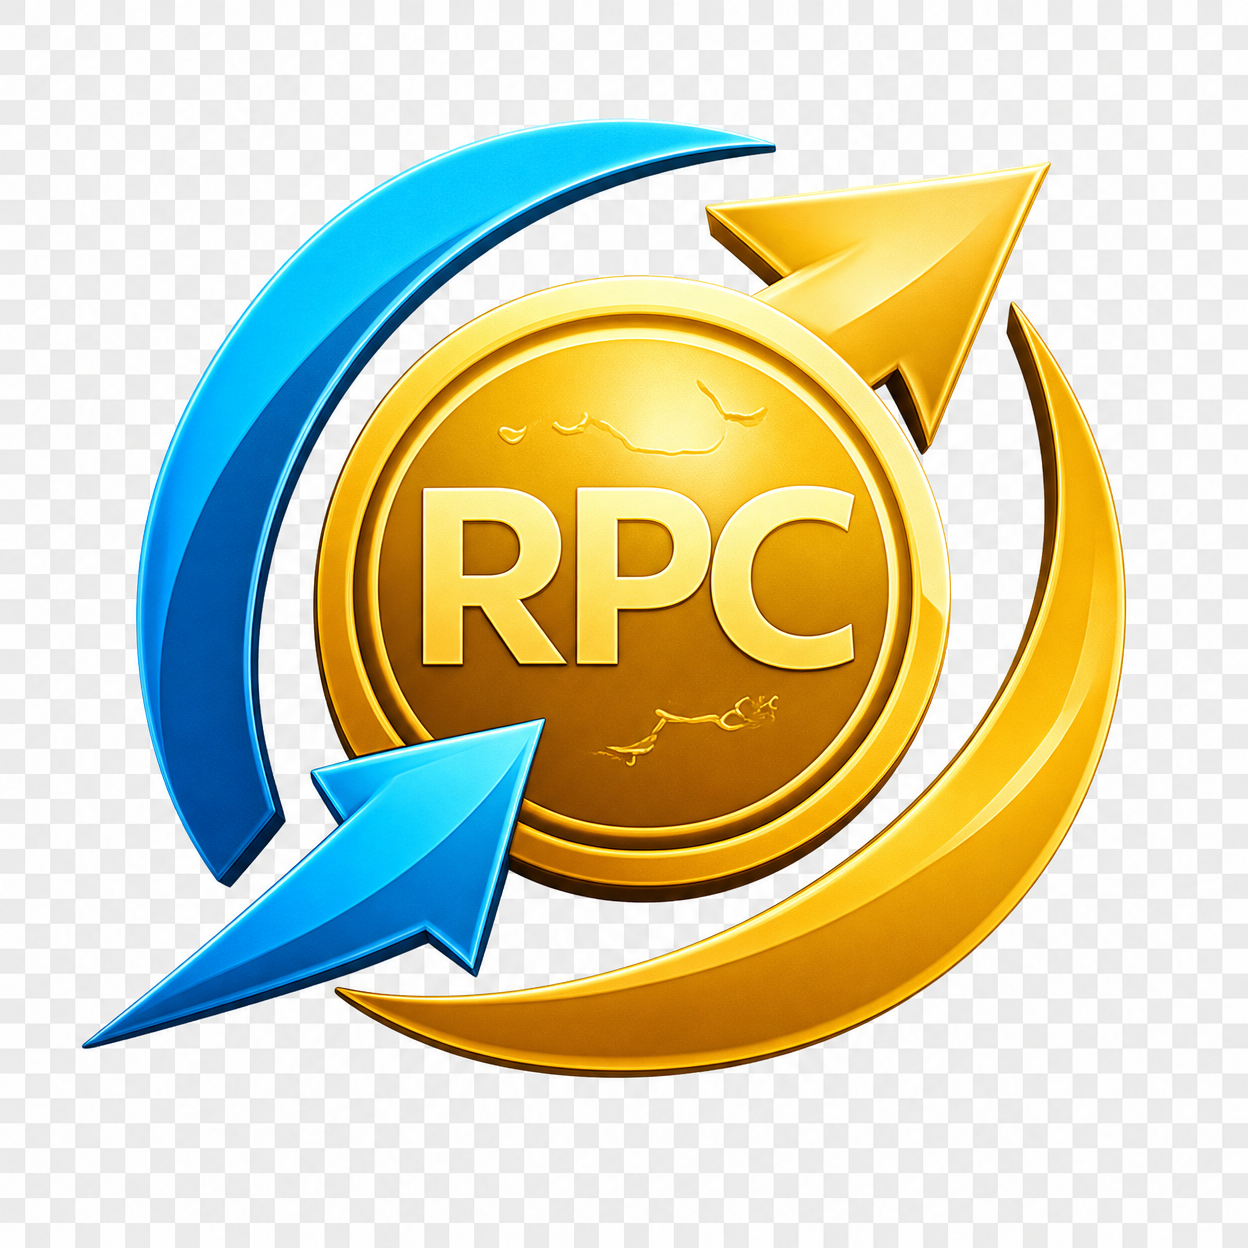
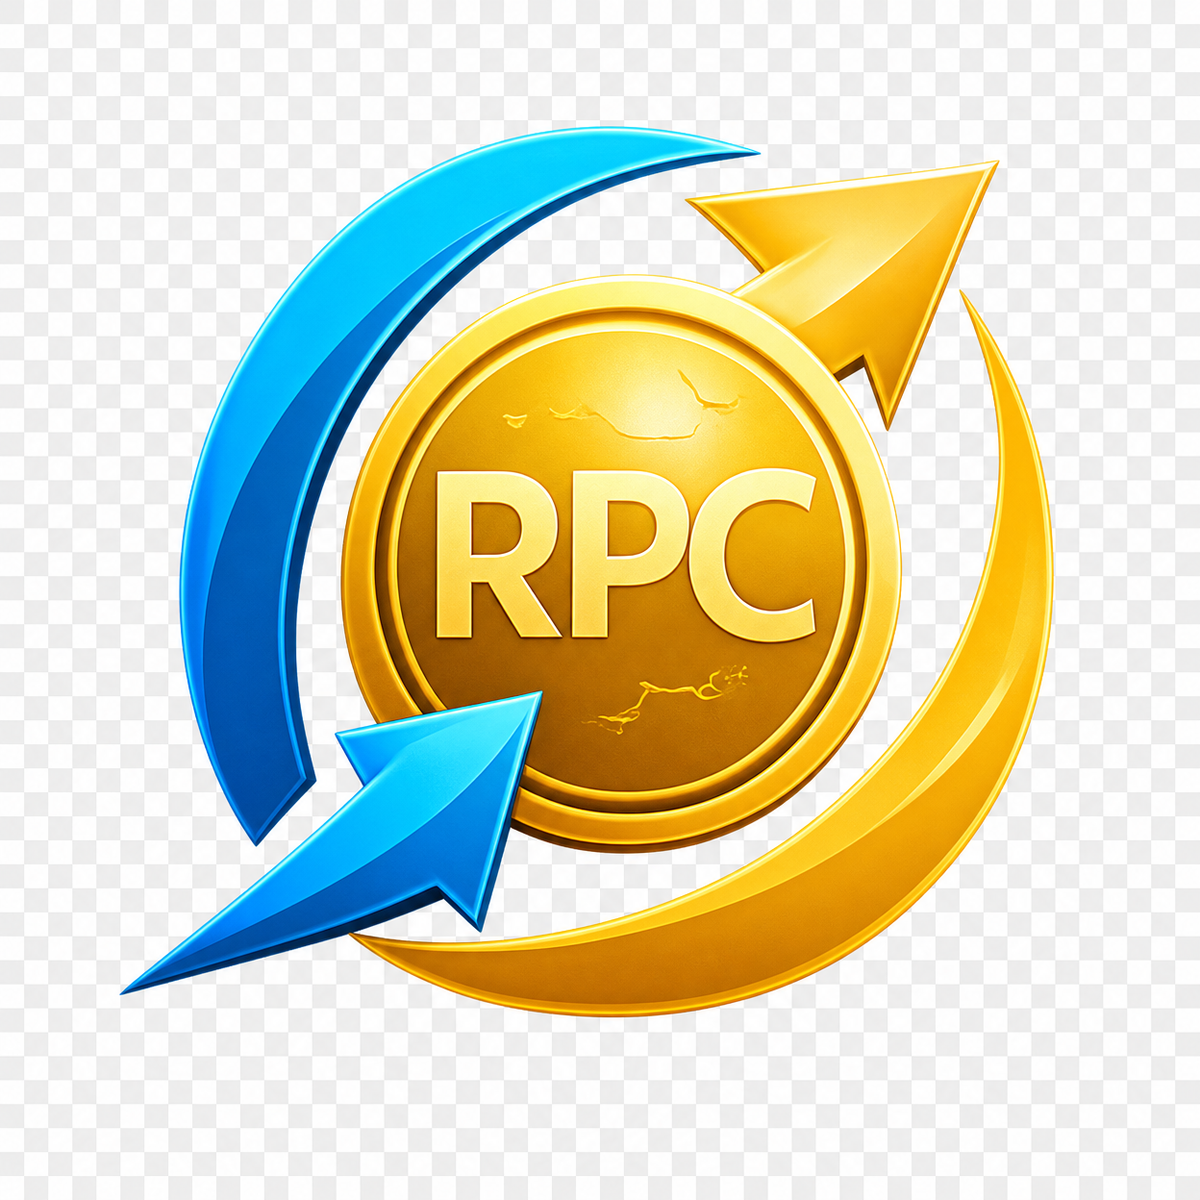
style: complete frontend modernization with glassmorphism and optimized assets

Changed region(s): [[0.0617, 0.0925, 0.925, 0.8633], [0.4933, 0.5858, 0.5242, 0.6167]]

diff --git a/frontend/src/pages/RegisterPage.tsx b/frontend/src/pages/RegisterPage.tsx
@@ -12,64 +12,121 @@ export function RegisterPage({ onSwitchLogin }: RegisterPageProps) {
   const [email, setEmail] = useState('');
   const [password, setPassword] = useState('');
   const [message, setMessage] = useState('');
+  const [isLoading, setIsLoading] = useState(false);
 
   async function handleSubmit(event: FormEvent) {
     event.preventDefault();
+    setIsLoading(true);
     try {
       await api('/auth/register', {
         method: 'POST',
         body: JSON.stringify({ name, characterName, bankAccountNumber, email, password }),
       });
-      setMessage('Conta criada com sucesso. Entre com o e-mail cadastrado.');
-      setName('');
-      setCharacterName('');
-      setBankAccountNumber('');
-      setEmail('');
-      setPassword('');
-      if (onSwitchLogin) onSwitchLogin();
+      setMessage('✓ Conta criada com sucesso! Redirecionando para login...');
+      setTimeout(() => {
+        setName('');
+        setCharacterName('');
+        setBankAccountNumber('');
+        setEmail('');
+        setPassword('');
+        if (onSwitchLogin) onSwitchLogin();
+      }, 1500);
     } catch (error) {
       setMessage((error as Error).message);
+    } finally {
+      setIsLoading(false);
     }
   }
 
   return (
     <section className="auth-panel nested-card">
-      <div style={{ textAlign: 'center', marginBottom: '20px' }}>
-        <img src="/assets/logo-full.png" alt="RPC Exchange" style={{ maxWidth: '200px', height: 'auto' }} />
+      <div className="auth-logo-container">
+        <img src="/assets/logo-full.png" alt="RPC Exchange" className="auth-logo" />
       </div>
-      <h2>Criar conta</h2>
-      <form onSubmit={handleSubmit}>
+      
+      <div className="auth-header">
+        <h2>Criar conta</h2>
+        <p className="auth-subtitle">Junte-se à comunidade RPC Exchange</p>
+      </div>
+
+      <form onSubmit={handleSubmit} className="auth-form">
         <label>
-          Nome
-          <input placeholder="Seu nome" value={name} onChange={(event) => setName(event.target.value)} required />
+          <span className="label-text">Nome completo</span>
+          <input 
+            placeholder="Seu nome" 
+            value={name} 
+            onChange={(event) => setName(event.target.value)} 
+            disabled={isLoading}
+            required 
+          />
         </label>
+
         <label>
-          Nome do personagem
-          <input placeholder="Nome do personagem" value={characterName} onChange={(event) => setCharacterName(event.target.value)} required minLength={3} />
+          <span className="label-text">Nome do personagem (RP)</span>
+          <input 
+            placeholder="Nome do seu personagem" 
+            value={characterName} 
+            onChange={(event) => setCharacterName(event.target.value)} 
+            disabled={isLoading}
+            required 
+            minLength={3} 
+          />
         </label>
+
         <label>
-          Número da conta bancária fictícia do RP
-          <input placeholder="Ex.: RP-12345" value={bankAccountNumber} onChange={(event) => setBankAccountNumber(event.target.value)} required minLength={3} />
+          <span className="label-text">Número da conta bancária</span>
+          <input 
+            placeholder="Ex.: RP-12345" 
+            value={bankAccountNumber} 
+            onChange={(event) => setBankAccountNumber(event.target.value)} 
+            disabled={isLoading}
+            required 
+            minLength={3} 
+          />
+          <small className="label-hint">Fictícia, usada apenas no RP</small>
         </label>
-        <p className="info-text">A conta bancária é fictícia e usada apenas dentro do RP.</p>
+
         <label>
-          E-mail
-          <input placeholder="[email redacted]" type="email" value={email} onChange={(event) => setEmail(event.target.value)} required />
+          <span className="label-text">E-mail</span>
+          <input 
+            placeholder="[email redacted]" 
+            type="email" 
+            value={email} 
+            onChange={(event) => setEmail(event.target.value)} 
+            disabled={isLoading}
+            required 
+          />
         </label>
+
         <label>
-          Senha
-          <input placeholder="Mínimo 8 caracteres" type="password" value={password} onChange={(event) => setPassword(event.target.value)} required minLength={8} />
+          <span className="label-text">Senha</span>
+          <input 
+            placeholder="Mínimo 8 caracteres" 
+            type="password" 
+            value={password} 
+            onChange={(event) => setPassword(event.target.value)} 
+            disabled={isLoading}
+            required 
+            minLength={8} 
+          />
+          <small className="label-hint">Use uma senha forte com números e símbolos</small>
         </label>
-        <button className="button-primary" type="submit">Cadastrar</button>
+
+        <button className="button-primary" type="submit" disabled={isLoading}>
+          {isLoading ? 'Criando conta...' : 'Cadastrar'}
+        </button>
       </form>
-      {message && <p className="info-text">{message}</p>}
-      {onSwitchLogin && (
-        <p className="auth-switch-row">
-          Já tem conta?{' '}
-          <button className="link-button" type="button" onClick={onSwitchLogin}>
-            Ir para login
-          </button>
+
+      {message && (
+        <p className={`auth-message ${message.includes('sucesso') ? 'success' : 'error'}`}>
+          {message}
         </p>
+      )}
+
+      {onSwitchLogin && (
+        <div className="auth-footer">
+          <p>Já tem conta? <button className="link-button" type="button" onClick={onSwitchLogin}>Ir para login</button></p>
+        </div>
       )}
     </section>
   );

diff --git a/frontend/src/styles.css b/frontend/src/styles.css
@@ -1,12 +1,19 @@
 :root {
-  font-family: Inter, system-ui, sans-serif;
+  font-family: 'Inter', '-apple-system', 'BlinkMacSystemFont', 'Segoe UI', sans-serif;
   color: #e2e8f0;
   background: linear-gradient(180deg, #090f1d 0%, #111b31 50%, #0a1120 100%);
   --bg-main: #0a1120;
-  --bg-card: rgba(11, 19, 36, 0.85);
-  --border-soft: rgba(148, 163, 184, 0.24);
+  --bg-card: rgba(11, 19, 36, 0.7);
+  --bg-card-hover: rgba(11, 19, 36, 0.85);
+  --border-soft: rgba(148, 163, 184, 0.2);
+  --border-focus: rgba(59, 130, 246, 0.4);
+  --text-primary: #f8fafc;
+  --text-secondary: #cbd5e1;
   --text-muted: #9fb0c9;
-  --shadow-card: 0 12px 30px rgba(5, 10, 24, 0.4);
+  --shadow-card: 0 8px 24px rgba(5, 10, 24, 0.3);
+  --shadow-hover: 0 12px 32px rgba(5, 10, 24, 0.5);
+  --transition-fast: 0.15s ease;
+  --transition-normal: 0.25s ease;
 }
 
 * { box-sizing: border-box; }
@@ -18,10 +25,17 @@ body { margin: 0; min-height: 100vh; background: linear-gradient(180deg, #090f1d
 .card {
   background: var(--bg-card);
   border: 1px solid var(--border-soft);
-  border-radius: 18px;
+  border-radius: 16px;
   padding: 16px;
   box-shadow: var(--shadow-card);
-  backdrop-filter: blur(8px);
+  backdrop-filter: blur(12px);
+  -webkit-backdrop-filter: blur(12px);
+  transition: all var(--transition-normal);
+}
+.card:hover {
+  background: var(--bg-card-hover);
+  border-color: var(--border-focus);
+  box-shadow: var(--shadow-hover);
 }
 
 .public-entry-card { width: min(100%, 470px); }
@@ -42,17 +56,49 @@ button, input, textarea, select {
   min-height: 44px;
   border-radius: 12px;
   padding: 10px 12px;
-  border: 1px solid #475569;
-  background: rgba(15, 23, 42, 0.75);
-  color: #f8fafc;
+  border: 1px solid var(--border-soft);
+  background: rgba(15, 23, 42, 0.6);
+  color: var(--text-primary);
   font-size: 1rem;
+  transition: all var(--transition-fast);
+  backdrop-filter: blur(4px);
+}
+input:focus, textarea:focus, select:focus {
+  border-color: var(--border-focus);
+  background: rgba(15, 23, 42, 0.8);
+  outline: none;
+  box-shadow: 0 0 0 2px rgba(59, 130, 246, 0.2);
 }
 label { display: grid; gap: 6px; color: #cbd5e1; font-size: 0.92rem; }
 button { cursor: pointer; font-weight: 700; }
 
-.button-primary { background: linear-gradient(90deg, #2563eb, #7c3aed); border: none; }
-.button-success { background: linear-gradient(90deg, #15803d, #22c55e); border: none; }
-.button-danger { background: linear-gradient(90deg, #dc2626, #f97316); border: none; }
+.button-primary {
+  background: linear-gradient(135deg, #2563eb 0%, #7c3aed 100%);
+  border: none;
+  transition: all var(--transition-fast);
+}
+.button-primary:hover {
+  transform: translateY(-2px);
+  box-shadow: 0 8px 20px rgba(37, 99, 235, 0.3);
+}
+.button-success {
+  background: linear-gradient(135deg, #15803d 0%, #22c55e 100%);
+  border: none;
+  transition: all var(--transition-fast);
+}
+.button-success:hover {
+  transform: translateY(-2px);
+  box-shadow: 0 8px 20px rgba(34, 197, 94, 0.3);
+}
+.button-danger {
+  background: linear-gradient(135deg, #dc2626 0%, #f97316 100%);
+  border: none;
+  transition: all var(--transition-fast);
+}
+.button-danger:hover {
+  transform: translateY(-2px);
+  box-shadow: 0 8px 20px rgba(220, 38, 38, 0.3);
+}
 .small-button { width: auto; min-width: 72px; }
 
 .pill-nav, .quick-actions { display: flex; gap: 8px; overflow-x: auto; padding-bottom: 3px; }

diff --git a/frontend/src/pages/LoginPage.tsx b/frontend/src/pages/LoginPage.tsx
@@ -10,9 +10,11 @@ export function LoginPage({ onSuccess, onSwitchRegister }: LoginPageProps) {
   const [email, setEmail] = useState('');
   const [password, setPassword] = useState('');
   const [message, setMessage] = useState('');
+  const [isLoading, setIsLoading] = useState(false);
 
   async function handleSubmit(event: FormEvent) {
     event.preventDefault();
+    setIsLoading(true);
     try {
       const result = await api<{ token: string }>('/auth/login', {
         method: 'POST',
@@ -23,34 +25,62 @@ export function LoginPage({ onSuccess, onSwitchRegister }: LoginPageProps) {
       onSuccess?.(result.token);
     } catch (error) {
       setMessage((error as Error).message);
+    } finally {
+      setIsLoading(false);
     }
   }
 
   return (
     <section className="auth-panel nested-card">
-      <div style={{ textAlign: 'center', marginBottom: '20px' }}>
-        <img src="/assets/logo-full.png" alt="RPC Exchange" style={{ maxWidth: '200px', height: 'auto' }} />
+      <div className="auth-logo-container">
+        <img src="/assets/logo-full.png" alt="RPC Exchange" className="auth-logo" />
       </div>
-      <h2>Entrar</h2>
-      <form onSubmit={handleSubmit}>
+      
+      <div className="auth-header">
+        <h2>Bem-vindo à RPC Exchange</h2>
+        <p className="auth-subtitle">Simulação econômica para Roleplay</p>
+      </div>
+
+      <form onSubmit={handleSubmit} className="auth-form">
         <label>
-          E-mail
-          <input placeholder="[email redacted]" type="email" value={email} onChange={(event) => setEmail(event.target.value)} required />
+          <span className="label-text">E-mail</span>
+          <input 
+            placeholder="[email redacted]" 
+            type="email" 
+            value={email} 
+            onChange={(event) => setEmail(event.target.value)} 
+            disabled={isLoading}
+            required 
+          />
         </label>
+        
         <label>
-          Senha
-          <input placeholder="********" type="password" value={password} onChange={(event) => setPassword(event.target.value)} required />
+          <span className="label-text">Senha</span>
+          <input 
+            placeholder="••••••••" 
+            type="password" 
+            value={password} 
+            onChange={(event) => setPassword(event.target.value)} 
+            disabled={isLoading}
+            required 
+          />
         </label>
-        <button className="button-primary" type="submit">Entrar</button>
+
+        <button className="button-primary" type="submit" disabled={isLoading}>
+          {isLoading ? 'Entrando...' : 'Entrar'}
+        </button>
       </form>
-      {message && <p className="info-text">{message}</p>}
-      {onSwitchRegister && (
-        <p className="auth-switch-row">
-          Novo por aqui?{' '}
-          <button className="link-button" type="button" onClick={onSwitchRegister}>
-            Criar cadastro
-          </button>
+
+      {message && (
+        <p className={`auth-message ${message.includes('sucesso') ? 'success' : 'error'}`}>
+          {message}
         </p>
+      )}
+
+      {onSwitchRegister && (
+        <div className="auth-footer">
+          <p>Novo por aqui? <button className="link-button" type="button" onClick={onSwitchRegister}>Criar cadastro</button></p>
+        </div>
       )}
     </section>
   );